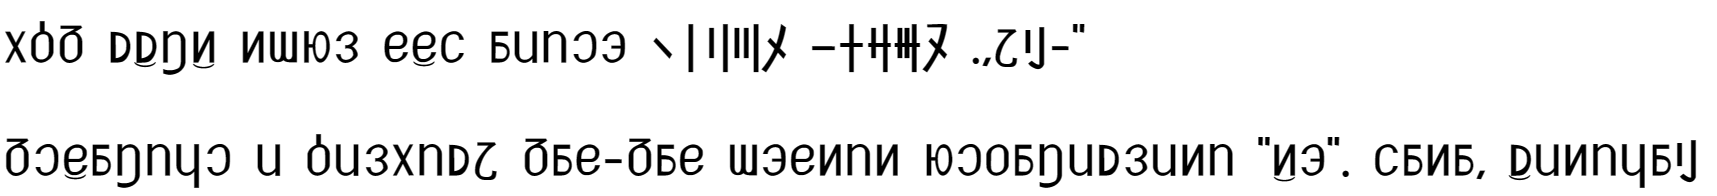
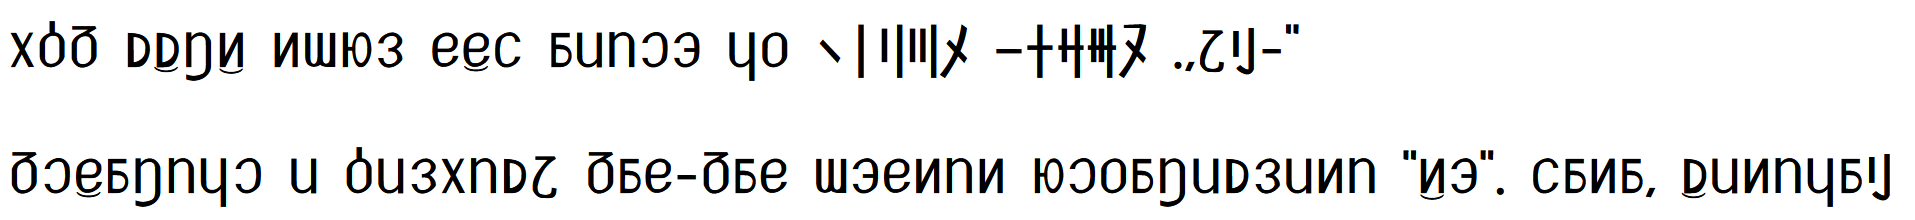
サンプルに j と w も必要

Changed region(s): [[0.0, 0.6735, 0.9878, 0.949], [0.0, 0.0918, 0.6791, 0.398]]

diff --git a/fonts/example.html b/fonts/example.html
@@ -11,7 +11,7 @@
     </head>
     <body style="font-family: Gy1Bet2; font-size: 250%;">
         <p>jo ka lapekante leti mugaciju leti cul leti makleti e waxec</p>
-        <p>pbm csxz tdnl kgh aeiuo 01234 56789 .,?!-"</p>
+        <p>pbm csxz tdnl kgh aeiuo jw 01234 56789 .,?!-"</p>
         <p>mugaxiju e belpic? mak-mak doktit nuwaxecleti "zo". hata, setija!</p>
     </body>
 </html>

diff --git a/README.md b/README.md
@@ -2,7 +2,7 @@
 
 ![](./sample.png)
 
-pbm csxz tdnl kgh aeiuo 01234 56789 .,?!-"  
+pbm csxz tdnl kgh aeiuo jw 01234 56789 .,?!-"  
 mugaxiju e belpic? mak-mak doktit nuwaxecleti "zo". hata, setija!
 
 Available in [TTF](https://github.com/sozysozbot/gy1_bet2_pmcp_font/blob/master/fonts/gy1bet2.ttf) and [WOFF](https://github.com/sozysozbot/gy1_bet2_pmcp_font/blob/master/fonts/gy1bet2.woff).
